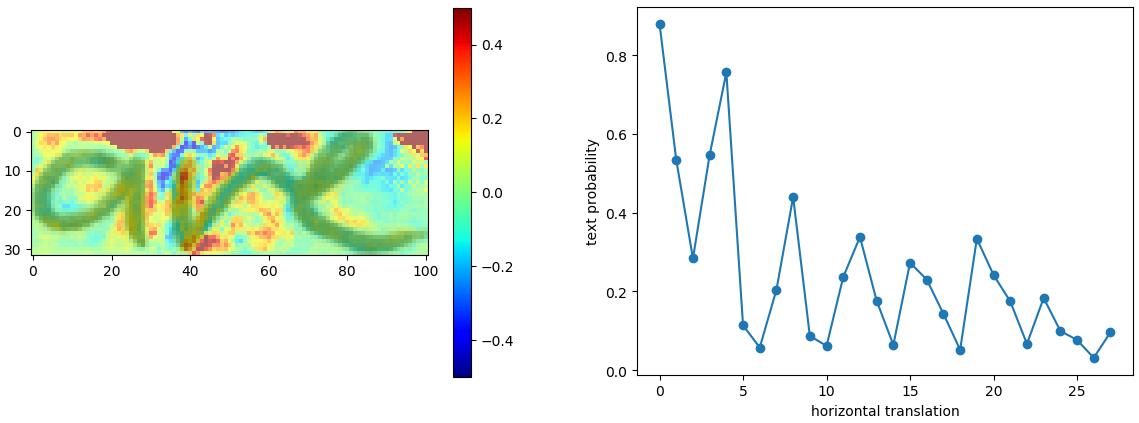
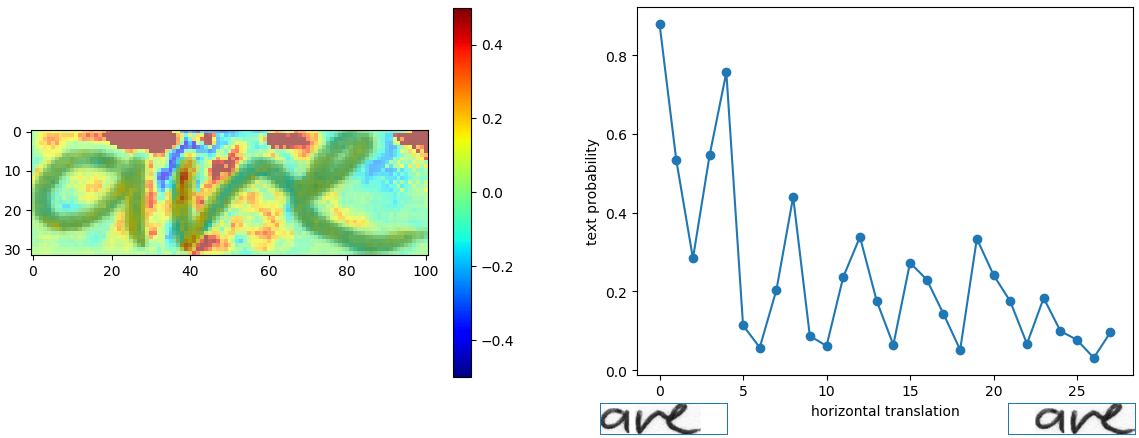
added information about analyze.py to README

diff --git a/README.md b/README.md
@@ -155,6 +155,26 @@ If you need a better accuracy, here are some ideas how to improve it \[2\]:
 * Decoder: use token passing or word beam search decoding \[4\] (see [CTCWordBeamSearch](https://github.com/githubharald/CTCWordBeamSearch)) to constrain the output to dictionary words.
 * Text correction: if the recognized word is not contained in a dictionary, search for the most similar one.
 
+### Analyze model
+
+Run `python analyze.py` with the following arguments to analyze the image file `data/analyze.png` with the ground-truth text "are":
+
+* `--relevance`: compute the pixel relevance for a the correct prediction.
+* `--invariance`: check if the model is invariant to horizontal translations of the text.
+* No argument provided: show the results.
+
+Results are shown in the plots below.
+The pixel relevance (left plot) shows how a pixel influences the score for the correct class.
+Red pixels vote for the correct class, while blue pixels vote against the correct class.
+It can be seen that the white space above vertical lines in images is important for the classifier to decide against the "i" character with its superscript dot.
+Draw a dot above the "a" (red region in plot) and you will get "aive" instead of "are".
+
+The second plot (right) shows how the probability of the ground-truth text changes when the text is shifted to the right.
+As can be seen, the model is not translation invariant, as all images from IAM are left-aligned.
+Adding data augmentation which uses random text-alignments can improve the translation invariance of the model.
+
+![analyze](./doc/analyze.png)
+
 
 ## FAQ
 
